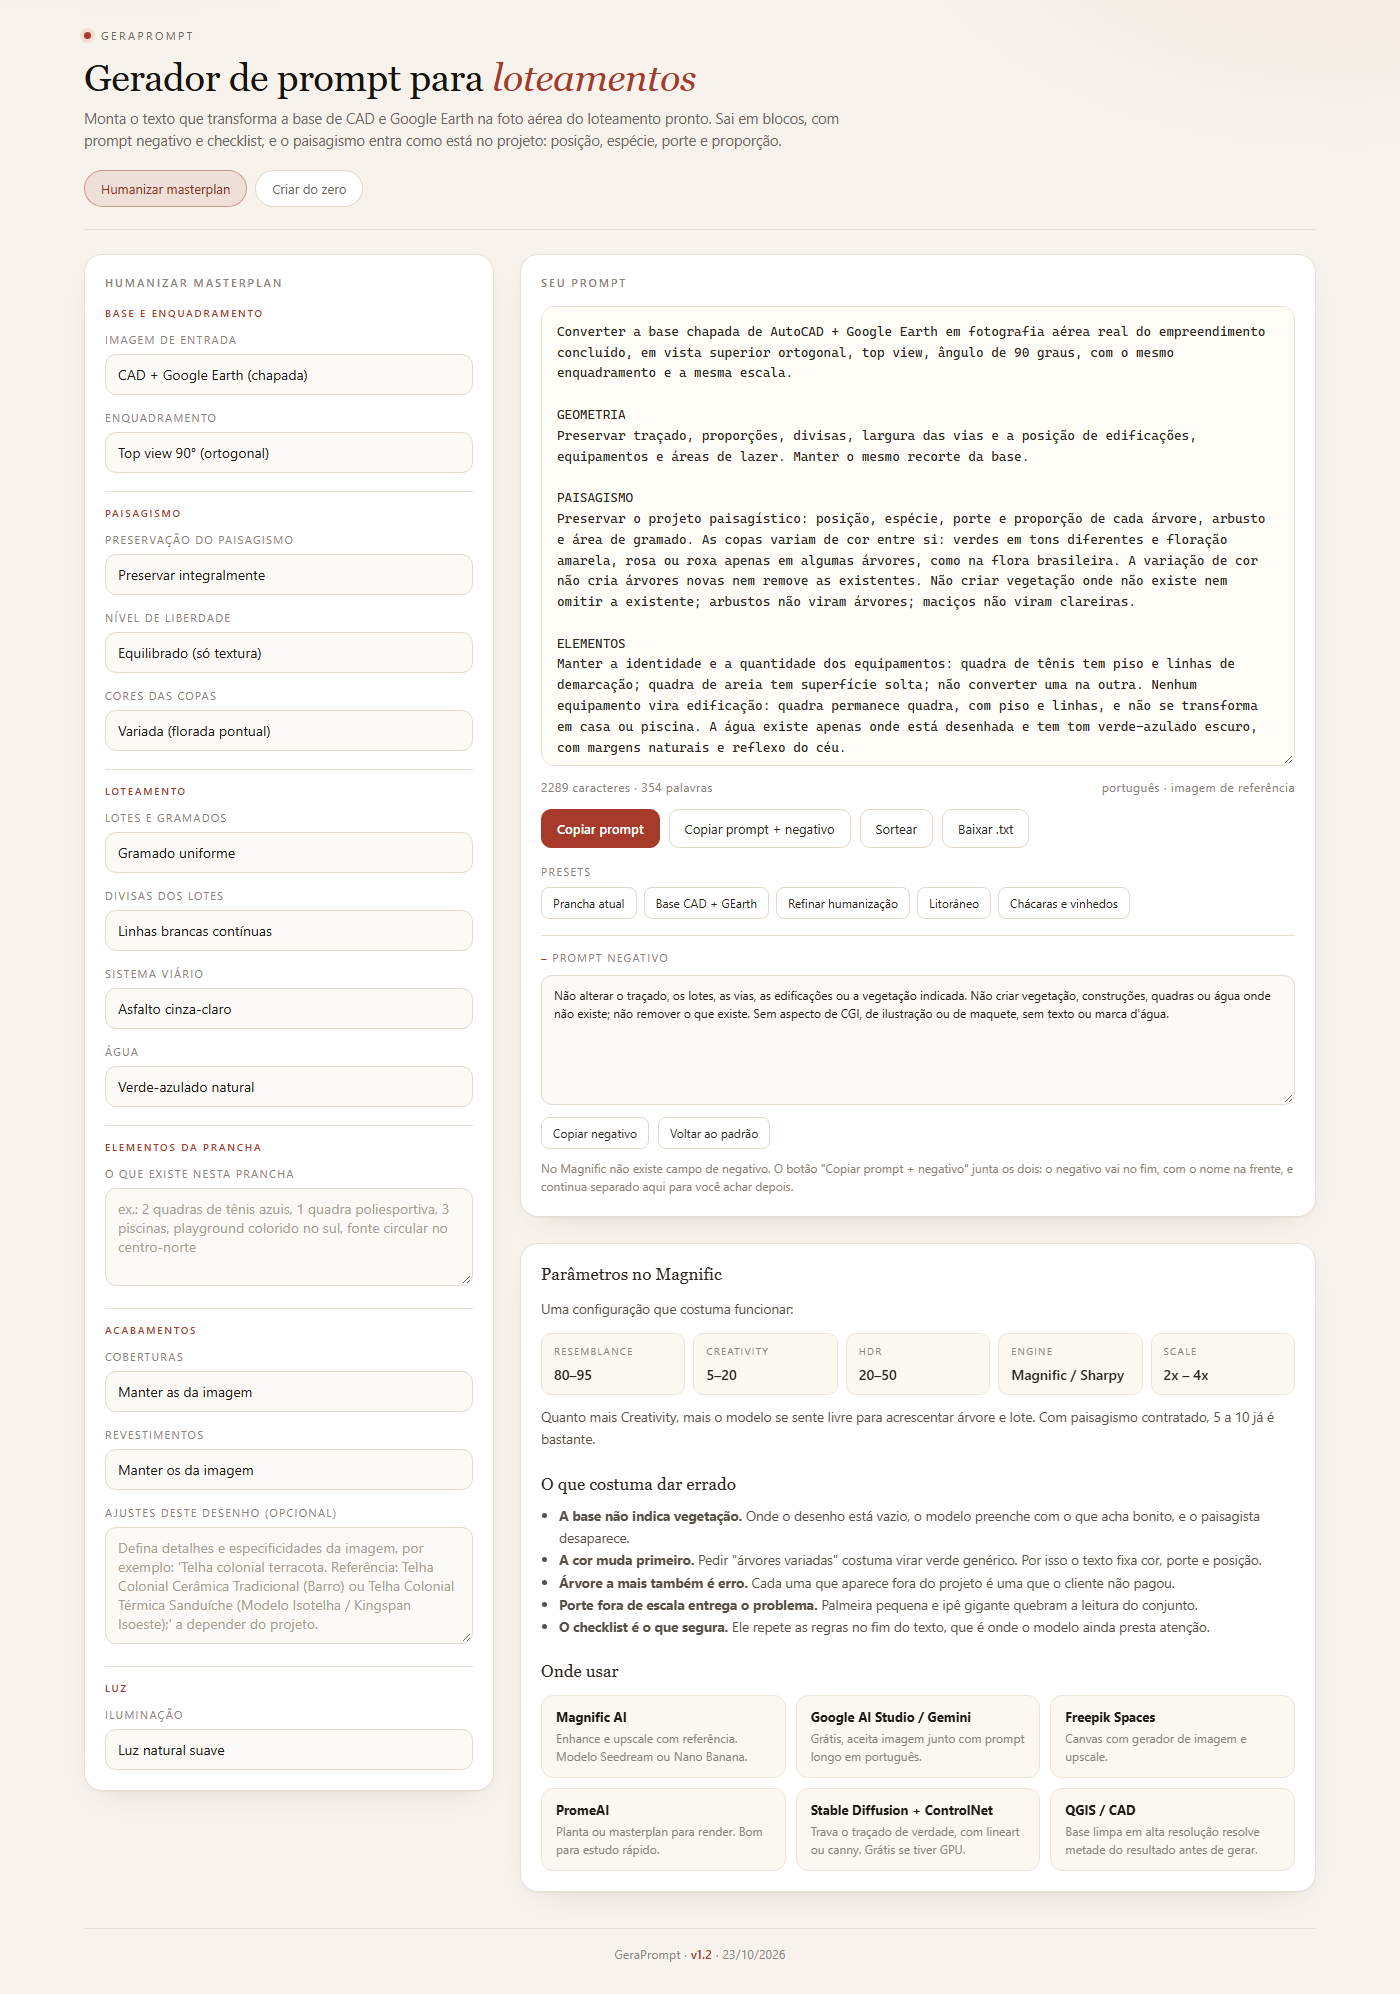
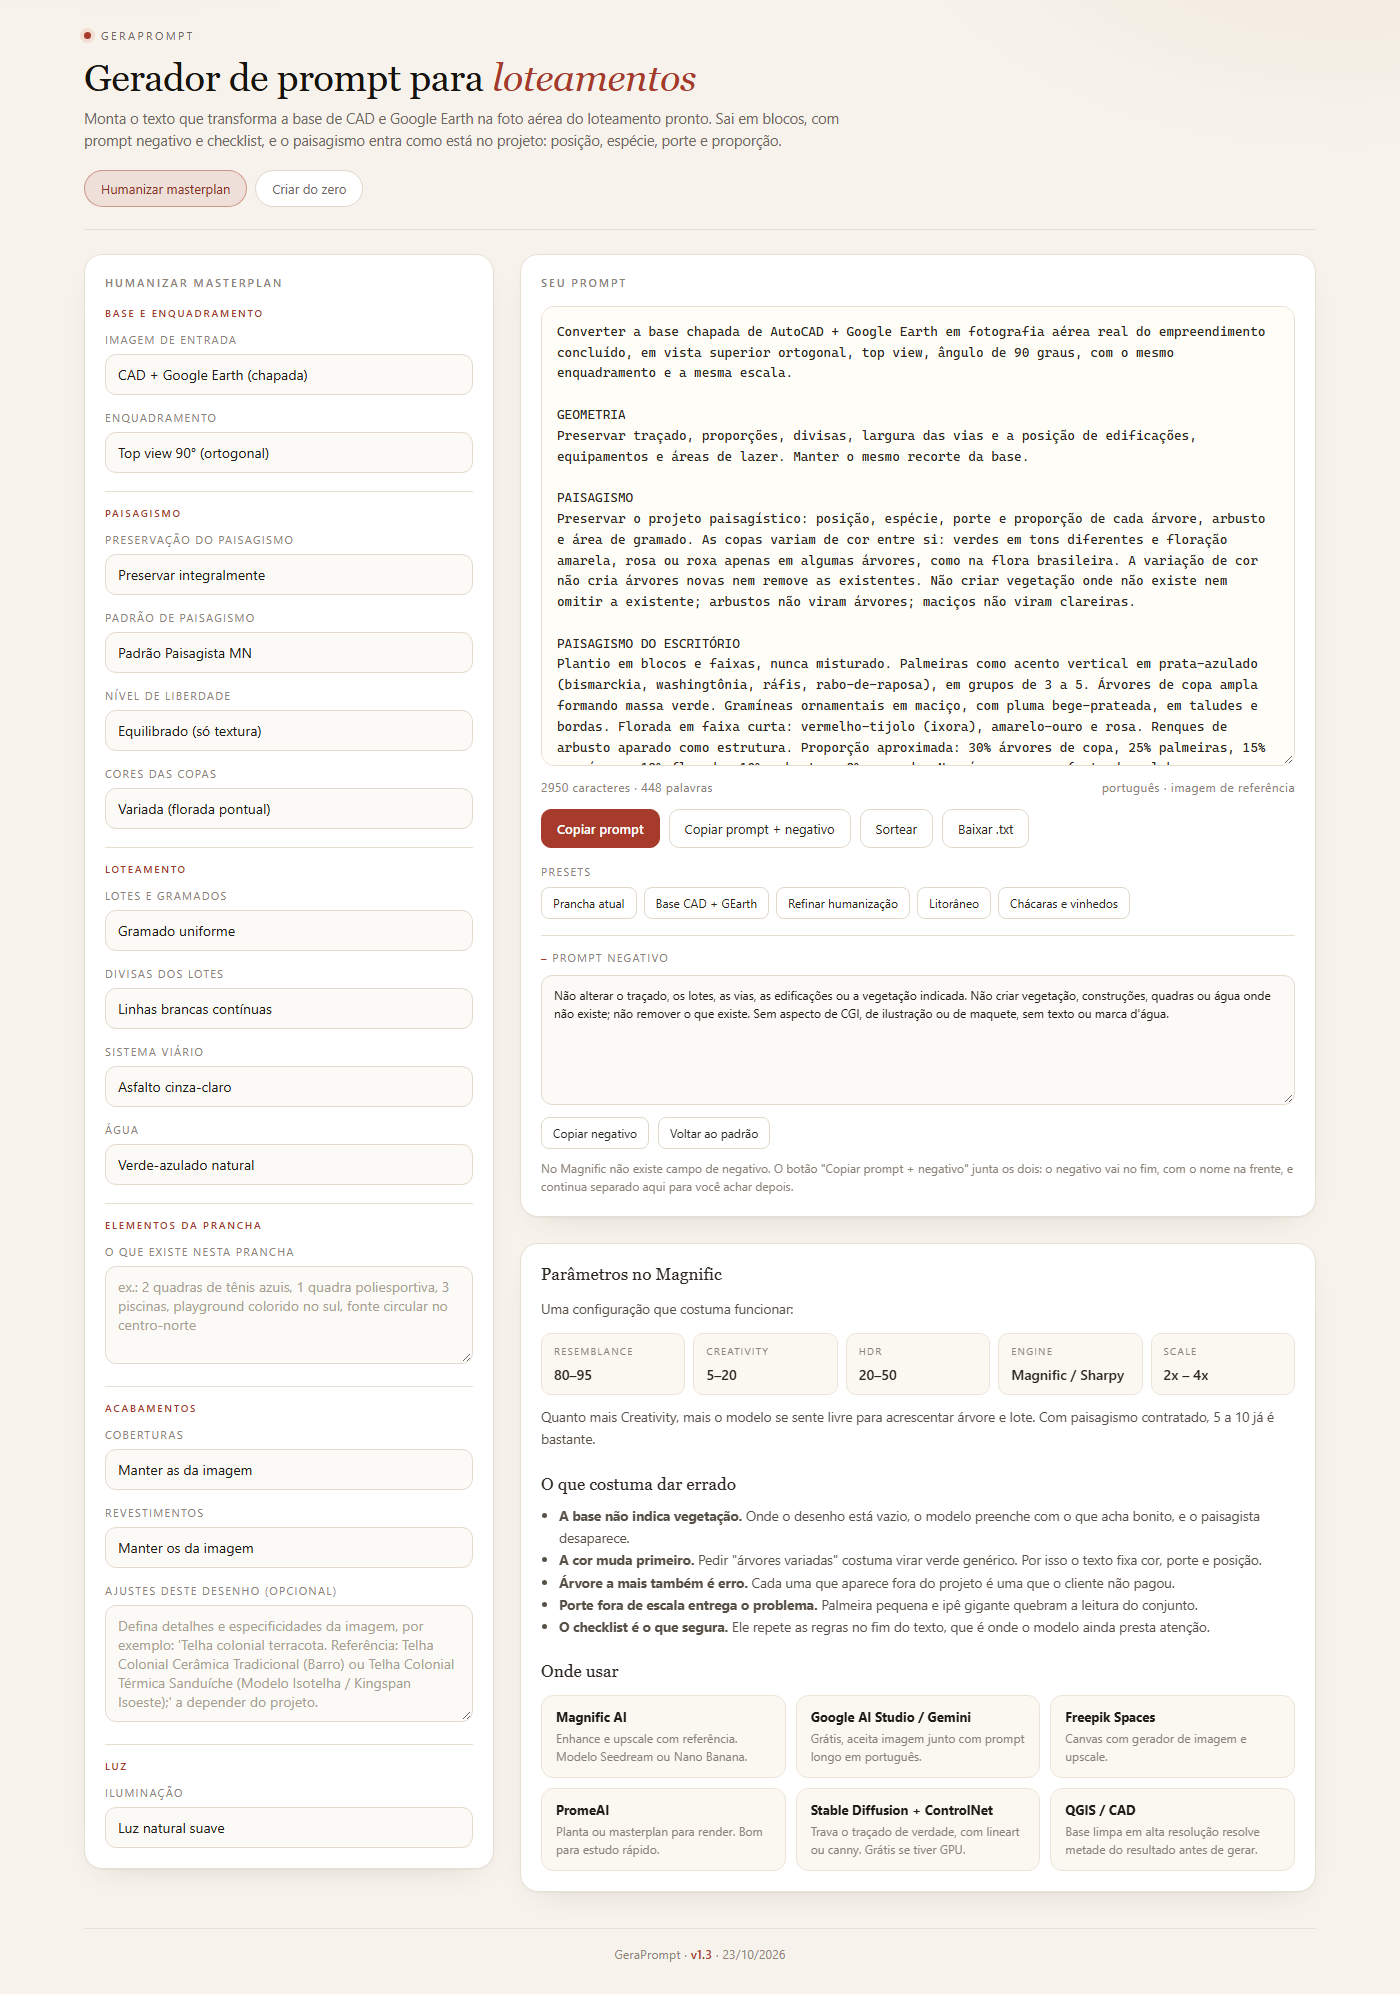
feat: padrao de paisagismo MN no modo humanizar (v1.3)

Changed region(s): [[0.0614, 0.3109, 0.3379, 0.9328], [0.3993, 0.3109, 0.8907, 0.4042]]

diff --git a/index.html b/index.html
@@ -228,6 +228,11 @@
         </div>
 
         <div class="field">
+          <label class="lbl" for="h-padrao">Padrão de paisagismo</label>
+          <select id="h-padrao" data-k="h.padrao" data-group="padrao"></select>
+        </div>
+
+        <div class="field">
           <label class="lbl" for="h-lib">Nível de liberdade</label>
           <select id="h-lib" data-k="h.liberdade" data-group="liberdade"></select>
         </div>
@@ -413,7 +418,7 @@
 
   </div>
 
-  <footer class="ver">GeraPrompt · <b>v1.2</b> · 23/10/2026</footer>
+  <footer class="ver">GeraPrompt · <b>v1.3</b> · 23/10/2026</footer>
 </div>
 
 <div class="toast" id="toast">copiado</div>
@@ -439,6 +444,10 @@
       {v:"full",   t:"Preservar integralmente o paisagismo proposto. A posição, a espécie, o porte e a proporção de cada árvore, arbusto e área de gramado devem permanecer exatamente como indicadas na base, respeitando o projeto paisagístico contratado."},
       {v:"refine", t:"Preservar integralmente o paisagismo proposto, refinando apenas o realismo das espécies já indicadas: mesma posição, mesma espécie, mesmo porte e mesma proporção de cada árvore, arbusto e área de gramado."},
       {v:"densify",t:"Preservar o paisagismo proposto e adensar somente a vegetação de borda já existente, sem avançar sobre lotes, vias, calçadas ou áreas livres."}
+    ],
+    padrao: [
+      {v:"mn",    p:"Padrão Paisagista MN"},
+      {v:"livre", p:"Sem padrão de paisagismo"}
     ],
     copas: [
       {v:"variada",   t:"As copas variam de cor entre si: verdes em tons diferentes e floração amarela, rosa ou roxa apenas em algumas árvores, como na flora brasileira. A variação de cor não cria árvores novas nem remove as existentes."},
@@ -583,7 +592,7 @@
 
   const st = {
     tab: "hum",
-    h: {base:"cad", enq:"top", pais:"full", liberdade:"equilibrado", copas:"variada", lotes:"uniform",
+    h: {base:"cad", enq:"top", pais:"full", padrao:"mn", liberdade:"equilibrado", copas:"variada", lotes:"uniform",
         divisas:"white", vias:"light", agua:"natural", cob:"keep", rev:"keep", luz:"soft",
         ajustes:"", inventario:"", enxuto:false},
     c: {cena:"aerial90", emp:"gated", pais:"atlantic", luz:"golden", cam:"drone90",
@@ -652,6 +661,11 @@
     out.push("GEOMETRIA\nPreservar traçado, proporções, divisas, largura das vias e a posição de edificações, equipamentos e áreas de lazer. Manter o mesmo recorte da base.");
 
     out.push("PAISAGISMO\nPreservar o projeto paisagístico: posição, espécie, porte e proporção de cada árvore, arbusto e área de gramado. " + g("copas").t + " Não criar vegetação onde não existe nem omitir a existente; arbustos não viram árvores; maciços não viram clareiras.");
+
+    if(st.h.padrao === "mn"){
+      out.push("PAISAGISMO DO ESCRITÓRIO\n" +
+        "Plantio em blocos e faixas, nunca misturado. Palmeiras como acento vertical em prata-azulado (bismarckia, washingtônia, ráfis, rabo-de-raposa), em grupos de 3 a 5. Árvores de copa ampla formando massa verde. Gramíneas ornamentais em maciço, com pluma bege-prateada, em taludes e bordas. Florada em faixa curta: vermelho-tijolo (ixora), amarelo-ouro e rosa. Renques de arbusto aparado como estrutura. Proporção aproximada: 30% árvores de copa, 25% palmeiras, 15% gramíneas, 12% florada, 10% arbustos, 8% gramado. Nas áreas comuns (entrada, clube, praça e talude), usar as faixas coloridas; nos lotes, apenas gramado com árvore isolada.");
+    }
 
     out.push("ELEMENTOS\nManter a identidade e a quantidade dos equipamentos: quadra de tênis tem piso e linhas de demarcação; quadra de areia tem superfície solta; não converter uma na outra. Nenhum equipamento vira edificação: quadra permanece quadra, com piso e linhas, e não se transforma em casa ou piscina. A água existe apenas onde está desenhada e " + g("agua").t);
 
@@ -741,7 +755,7 @@
     hum: [
       {name:"Prancha atual", s:{base:"cad", enq:"top", pais:"full", liberdade:"equilibrado", copas:"variada", lotes:"uniform", divisas:"white", vias:"light", agua:"natural", cob:"keep", rev:"keep", luz:"soft", ajustes:"", enxuto:false}},
       {name:"Base CAD + GEarth", s:{base:"cad", enq:"top", pais:"full", liberdade:"equilibrado", copas:"variada", lotes:"uniform", divisas:"white", vias:"light", agua:"natural", cob:"keep", rev:"keep", luz:"soft", ajustes:"", enxuto:false}},
-      {name:"Refinar humanização", s:{base:"ia", enq:"same", pais:"refine", liberdade:"conservador", copas:"keep", lotes:"keep", divisas:"keep", vias:"keep", agua:"keep", cob:"keep", rev:"keep", luz:"soft", ajustes:"", enxuto:false}},
+      {name:"Refinar humanização", s:{base:"ia", enq:"same", pais:"refine", padrao:"livre", liberdade:"conservador", copas:"keep", lotes:"keep", divisas:"keep", vias:"keep", agua:"keep", cob:"keep", rev:"keep", luz:"soft", ajustes:"", enxuto:false}},
       {name:"Litorâneo", s:{base:"cad", enq:"ob45", pais:"full", liberdade:"equilibrado", copas:"variada", lotes:"varied", divisas:"soft", vias:"paver", agua:"natural", cob:"marfim", rev:"stone", luz:"golden", ajustes:"", enxuto:false}},
       {name:"Chácaras e vinhedos", s:{base:"cad", enq:"top", pais:"full", liberdade:"equilibrado", copas:"variada", lotes:"natural", divisas:"white", vias:"paver", agua:"natural", cob:"terra", rev:"terracotta", luz:"sun", ajustes:"", enxuto:false}}
     ],

diff --git a/README.md b/README.md
@@ -28,6 +28,12 @@ Equipamento não vira outra coisa: quadra continua quadra, com piso e linhas. Ed
 
 Cinco combinações prontas: prancha atual, base CAD + GEarth, refinar humanização, litorâneo e chácaras com vinhedos. Servem como ponto de partida, não como receita.
 
+## Padrão de paisagismo
+
+O campo **Padrão de paisagismo** injeta no prompt uma paleta de espécies e proporções tirada da obra construída de um escritório brasileiro: palmeiras prateadas como acento vertical, árvores de copa ampla em massa, gramíneas ornamentais em maciço, florada em faixa curta e renques de arbusto. Vale para áreas comuns; nos lotes, gramado com árvore isolada.
+
+Escolha **Sem padrão de paisagismo** para outros contextos — aí o paisagismo vem apenas da base e do campo de ajustes.
+
 ## Onde funciona
 
 Qualquer modelo que aceite prompt de imagem. Já foi testado no Magnific com Seedream e com Nano Banana; deve funcionar igual no Gemini, Flux, SDXL e DALL·E.
